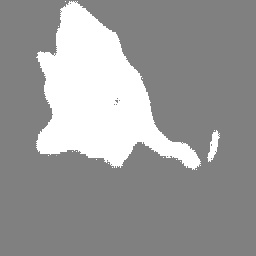
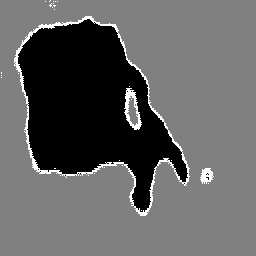
20230411_mask_video(1280x720)

diff --git a/video_test.py b/video_test.py
@@ -66,12 +66,14 @@ def video_smoke_semantic_test(video_path,model_input):
         if output_np.shape[0] == 1:
             output_np = (output_np[0] + 1)/2.0 *255.0
 
-        im = Image.fromarray(output_np)
-        im.show()
+        #im = Image.fromarray(output_np)
+
+        #im.show()
         cv2.imwrite('test_mask.jpg',output_np)
         #print(output_np.shape)
-        cv2.imshow('frame',frame)
-
+        output_np = cv2.resize(output_np,(1280,720),interpolation = cv2.INTER_AREA)    #插值
+        cv2.imshow('frame',output_np)
+        cv2.imshow('frame1',frame)
         #out.write(frame)
 
         #print(output_np.shape)
